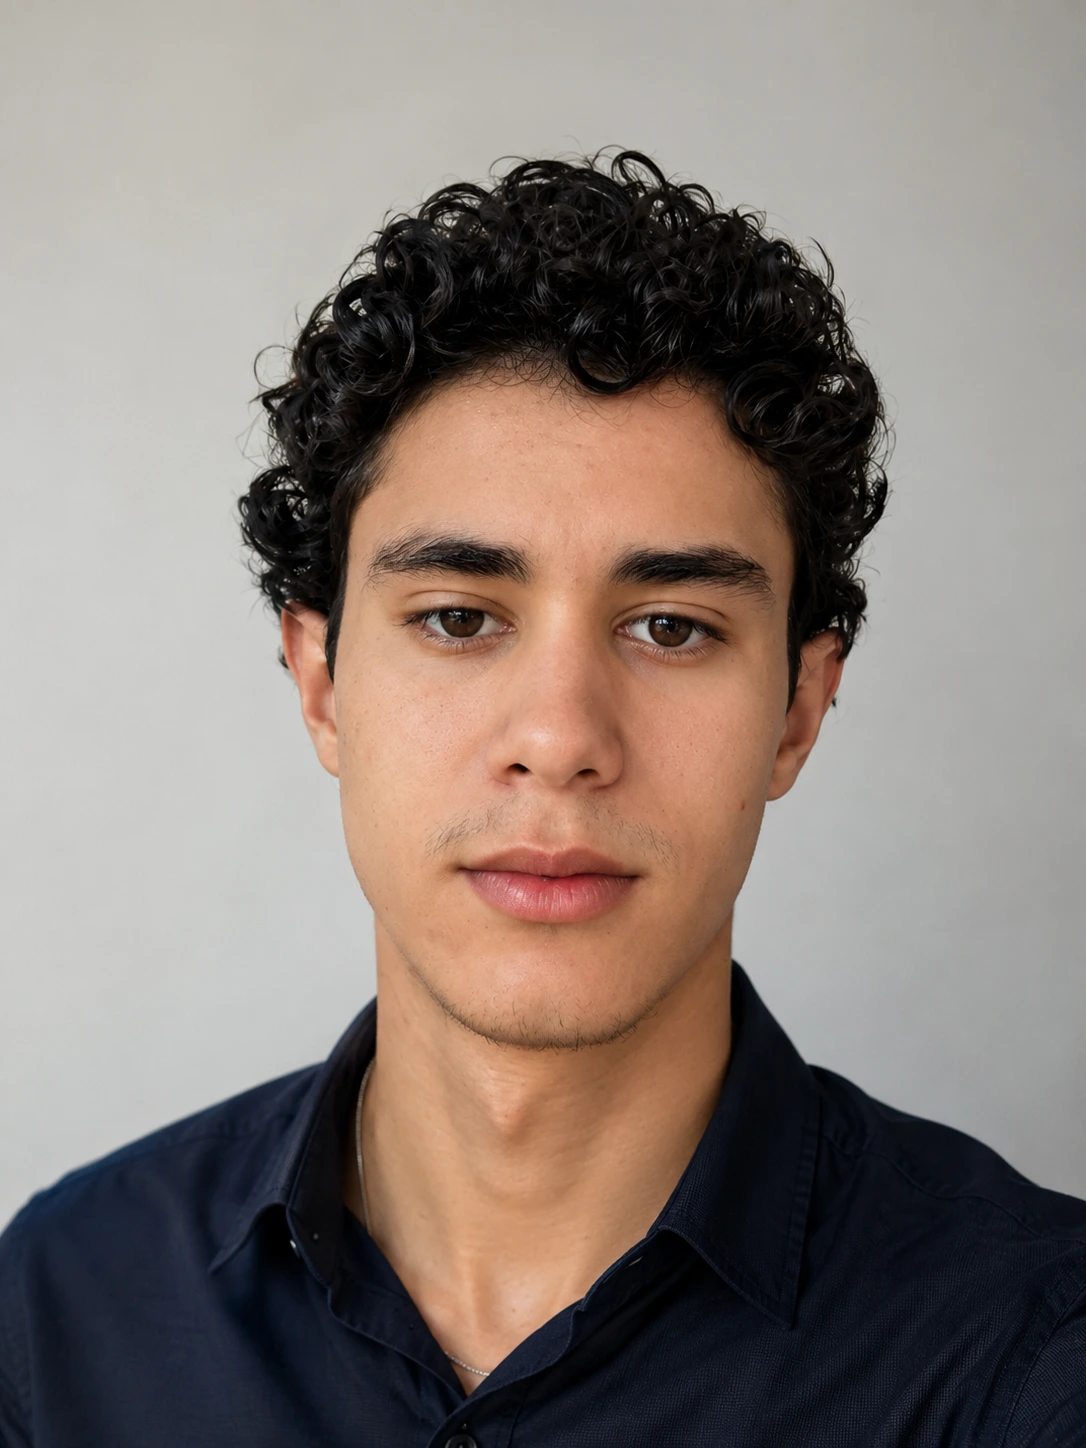
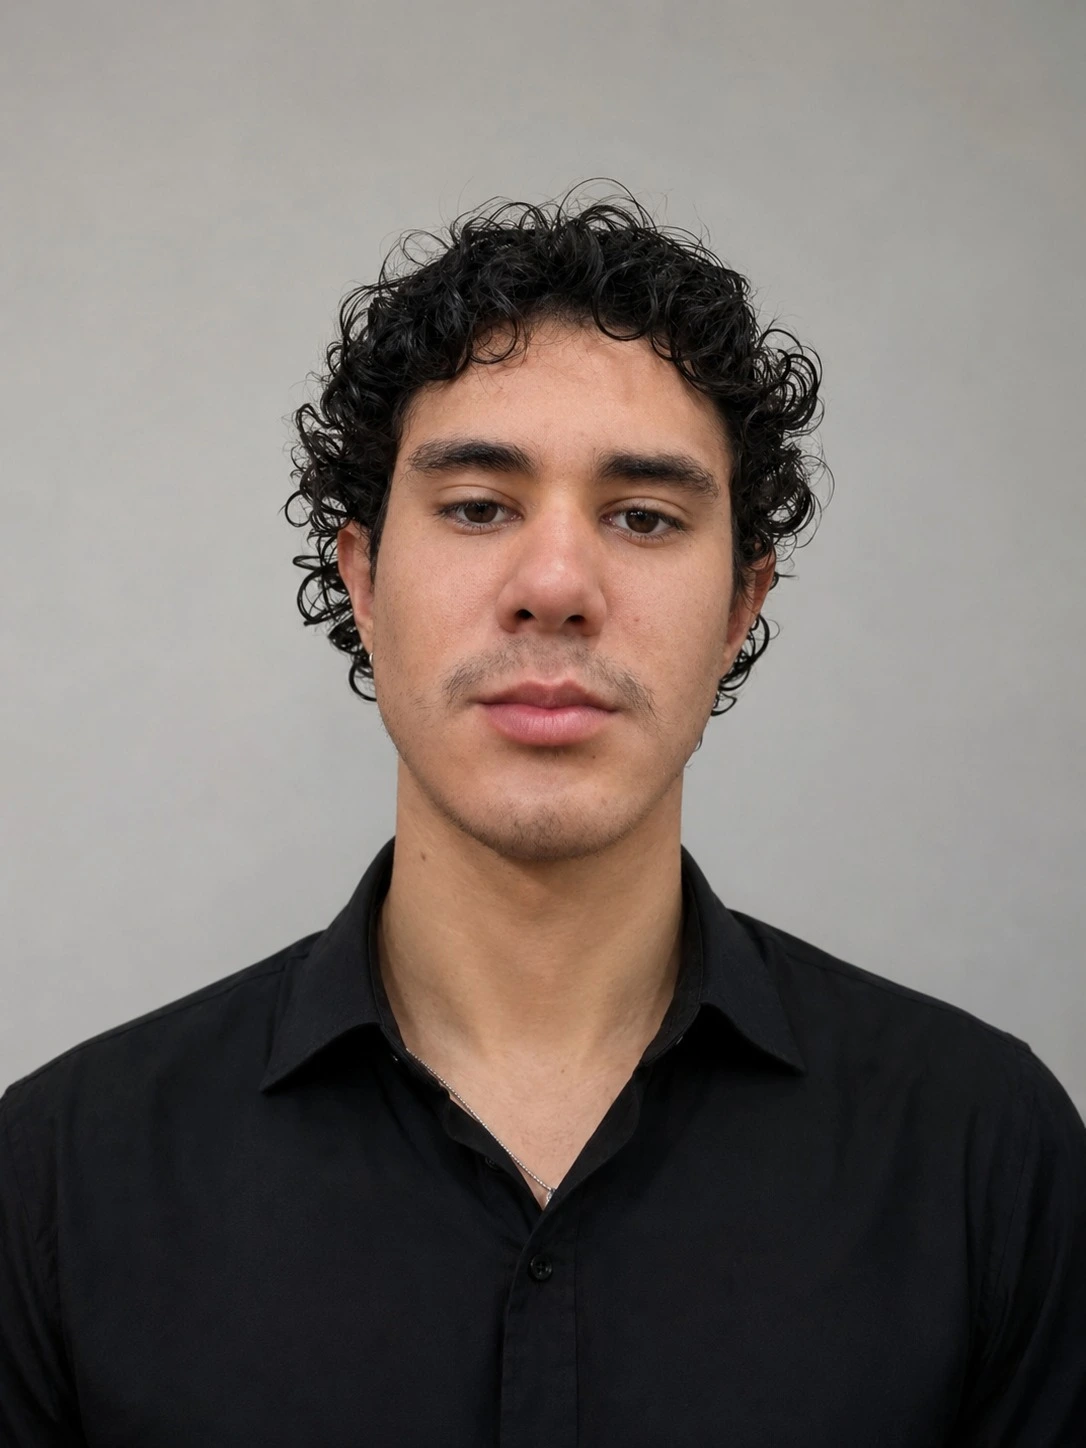
feat: add google analytics

diff --git a/pages/aboutUs.html b/pages/aboutUs.html
@@ -174,42 +174,42 @@
                     </div>
 
                     <div class="membro-card">
-                        <img src="../assets/img/aboutUs/profile.webp" alt="Foto">
+                        <img src="../assets/img/aboutUs/felix.webp" alt="Foto">
                         <h5>Felix</h5>
                         <p>Desenvolvedor</p>
                         <div class="curriculo">
-                            <a href="#" target="_blank">Currículo Lattes</a>
+                            <a href="http://lattes.cnpq.br/0074875411891333" target="_blank">Currículo Lattes</a>
                             <a href="#" target="_blank">LinkedIn</a>
                         </div>
                     </div>
 
                     <div class="membro-card">
-                        <img src="../assets/img/aboutUs/profile.webp" alt="Foto">
+                        <img src="../assets/img/aboutUs/isabela.webp" alt="Foto">
                         <h5>Isabela</h5>
                         <p>Desenvolvedora</p>
                         <div class="curriculo">
                             <a href="#" target="_blank">Currículo Lattes</a>
-                            <a href="#" target="_blank">LinkedIn</a>
+                            <a href="https://br.linkedin.com/in/isabella-reis-borges-9550b2209" target="_blank">LinkedIn</a>
                         </div>
                     </div>
 
                     <div class="membro-card">
                         <img src="../assets/img/aboutUs/profile.webp" alt="Foto">
-                        <h5>Enaque</h5>
+                        <h5>Enoque</h5>
                         <p>Desenvolvedor</p>
                         <div class="curriculo">
-                            <a href="#" target="_blank">Currículo Lattes</a>
+                            <a href="http://lattes.cnpq.br/5299449961044833" target="_blank">Currículo Lattes</a>
                             <a href="#" target="_blank">LinkedIn</a>
                         </div>
                     </div>
 
                     <div class="membro-card">
-                        <img src="../assets/img/aboutUs/profile.webp" alt="Foto">
-                        <h5>Ronaldo</h5>
+                        <img src="../assets/img/aboutUs/ronaldo.webp" alt="Foto">
+                        <h5>Ronaldo Crispim</h5>
                         <p>Desenvolvedor</p>
                         <div class="curriculo">
-                            <a href="#" target="_blank">Currículo Lattes</a>
-                            <a href="#" target="_blank">LinkedIn</a>
+                            <a href="http://lattes.cnpq.br/9209577575643618" target="_blank">Currículo Lattes</a>
+                            <a href="https://www.linkedin.com/in/ronaldocrispimsg/" target="_blank">LinkedIn</a>
                         </div>
                     </div>
 

diff --git a/assets/css/header.css b/assets/css/header.css
@@ -201,20 +201,33 @@
 
     /* Lógica do Checkbox Mobile */
     .drop-icon {
-        display: block; color: #ffffff; font-size: 26px; cursor: pointer;
-        line-height: 1; padding: 0 10px; transition: transform 0.3s ease;
+        display: block; 
+        color: #ffffff; 
+        font-size: 26px; 
+        cursor: pointer;
+        line-height: 1; 
+        padding: 0 10px; 
+        transition: transform 0.3s ease;
     }
     
-    .link-wrapper { justify-content: center; }
+    .link-wrapper { 
+        justify-content: center; 
+    }
     
     .menu-checkbox:checked ~ .main-nav { transform: translateX(0) !important; }
     
     .nav-links > li:hover .dropdown { opacity: 0; visibility: hidden; }
     
     .dropdown {
-        position: static; transform: none; background-color: transparent;
-        box-shadow: none; padding: 0; margin-top: 15px;
-        display: none !important; opacity: 1 !important; visibility: visible !important;
+        position: static; 
+        transform: none; 
+        background-color: transparent;
+        box-shadow: none; 
+        padding: 0; 
+        margin-top: 15px;
+        display: none !important; 
+        opacity: 1 !important; 
+        visibility: visible !important;
     }
     
     .drop-checkbox:checked ~ .dropdown { display: flex !important; flex-direction: column; }

diff --git a/pages/privacidade.html b/pages/privacidade.html
@@ -1,6 +1,15 @@
 <!DOCTYPE html>
 <html lang="pt-br">
 <head>
+    <!-- Google tag (gtag.js) -->
+    <script async src="https://www.googletagmanager.com/gtag/js?id=G-YXF2E5DVGL"></script>
+    <script>
+        window.dataLayer = window.dataLayer || [];
+        function gtag(){dataLayer.push(arguments);}
+        gtag('js', new Date());
+
+        gtag('config', 'G-YXF2E5DVGL');
+    </script>
     <meta charset="UTF-8">
     <meta name="viewport" content="width=device-width, initial-scale=1.0">
     <title>Termos de Uso e Política de Privacidade - Guia Janu</title>

diff --git a/pages/pontos_turisticos_html/peruacu.html b/pages/pontos_turisticos_html/peruacu.html
@@ -1,6 +1,15 @@
 <!DOCTYPE html>
 <html lang="pt-br">
 <head>
+  <!-- Google tag (gtag.js) -->
+    <script async src="https://www.googletagmanager.com/gtag/js?id=G-YXF2E5DVGL"></script>
+    <script>
+        window.dataLayer = window.dataLayer || [];
+        function gtag(){dataLayer.push(arguments);}
+        gtag('js', new Date());
+
+        gtag('config', 'G-YXF2E5DVGL');
+    </script>
   <meta charset="UTF-8">
   <meta name="viewport" content="width=device-width, initial-scale=1.0">
   <title>Parque Nacional Cavernas do Peruaçu - Guia Janu</title>

diff --git a/pages/pontos_turisticos_html/igreja_nossa_senhora_rosario.html b/pages/pontos_turisticos_html/igreja_nossa_senhora_rosario.html
@@ -1,6 +1,15 @@
 <!DOCTYPE html>
 <html lang="pt-br">
 <head>
+  <!-- Google tag (gtag.js) -->
+    <script async src="https://www.googletagmanager.com/gtag/js?id=G-YXF2E5DVGL"></script>
+    <script>
+        window.dataLayer = window.dataLayer || [];
+        function gtag(){dataLayer.push(arguments);}
+        gtag('js', new Date());
+
+        gtag('config', 'G-YXF2E5DVGL');
+    </script>
   <meta charset="UTF-8">
   <meta name="viewport" content="width=device-width, initial-scale=1.0">
   <title>Igreja Nossa Senhora do Rosário - Guia Janu</title>

diff --git a/pages/pontos_turisticos_html/cachoeira_rio_pandeiros.html b/pages/pontos_turisticos_html/cachoeira_rio_pandeiros.html
@@ -1,6 +1,15 @@
 <!DOCTYPE html>
 <html lang="pt-br">
 <head>
+  <!-- Google tag (gtag.js) -->
+    <script async src="https://www.googletagmanager.com/gtag/js?id=G-YXF2E5DVGL"></script>
+    <script>
+        window.dataLayer = window.dataLayer || [];
+        function gtag(){dataLayer.push(arguments);}
+        gtag('js', new Date());
+
+        gtag('config', 'G-YXF2E5DVGL');
+    </script>
   <meta charset="UTF-8">
   <meta name="viewport" content="width=device-width, initial-scale=1.0">
   <title>Cachoeiras do Rio Pandeiros - Guia Janu</title>

diff --git a/pages/pontos_turisticos_html/distrito_brejo_amparo.html b/pages/pontos_turisticos_html/distrito_brejo_amparo.html
@@ -1,6 +1,15 @@
 <!DOCTYPE html>
 <html lang="pt-br">
 <head>
+  <!-- Google tag (gtag.js) -->
+    <script async src="https://www.googletagmanager.com/gtag/js?id=G-YXF2E5DVGL"></script>
+    <script>
+        window.dataLayer = window.dataLayer || [];
+        function gtag(){dataLayer.push(arguments);}
+        gtag('js', new Date());
+
+        gtag('config', 'G-YXF2E5DVGL');
+    </script>
   <meta charset="UTF-8">
   <meta name="viewport" content="width=device-width, initial-scale=1.0">
   <title>Distrito do Brejo do Amparo - Guia Janu</title>

diff --git a/pages/pontos_turisticos_html/getulio_vargas.html b/pages/pontos_turisticos_html/getulio_vargas.html
@@ -1,6 +1,15 @@
 <!DOCTYPE html>
 <html lang="pt-br">
 <head>
+  <!-- Google tag (gtag.js) -->
+    <script async src="https://www.googletagmanager.com/gtag/js?id=G-YXF2E5DVGL"></script>
+    <script>
+        window.dataLayer = window.dataLayer || [];
+        function gtag(){dataLayer.push(arguments);}
+        gtag('js', new Date());
+
+        gtag('config', 'G-YXF2E5DVGL');
+    </script>
   <meta charset="UTF-8">
   <meta name="viewport" content="width=device-width, initial-scale=1.0">
   <title>Praça Getúlio Vargas - Guia Janu</title>

diff --git a/pages/pontos_turisticos_html/tiradentes.html b/pages/pontos_turisticos_html/tiradentes.html
@@ -1,6 +1,15 @@
 <!DOCTYPE html>
 <html lang="pt-br">
 <head>
+  <!-- Google tag (gtag.js) -->
+    <script async src="https://www.googletagmanager.com/gtag/js?id=G-YXF2E5DVGL"></script>
+    <script>
+        window.dataLayer = window.dataLayer || [];
+        function gtag(){dataLayer.push(arguments);}
+        gtag('js', new Date());
+
+        gtag('config', 'G-YXF2E5DVGL');
+    </script>
   <meta charset="UTF-8">
   <meta name="viewport" content="width=device-width, initial-scale=1.0">
   <title>Praça Tiradentes - Guia Janu</title>

diff --git a/pages/acidade.html b/pages/acidade.html
@@ -1,6 +1,15 @@
 <!DOCTYPE html>
 <html lang="pt-br">
 <head>
+    <!-- Google tag (gtag.js) -->
+    <script async src="https://www.googletagmanager.com/gtag/js?id=G-YXF2E5DVGL"></script>
+    <script>
+        window.dataLayer = window.dataLayer || [];
+        function gtag(){dataLayer.push(arguments);}
+        gtag('js', new Date());
+
+        gtag('config', 'G-YXF2E5DVGL');
+    </script>
     <meta charset="UTF-8">
     <meta name="viewport" content="width=device-width, initial-scale=1.0">
     <title>A Cidade - Guia Janu</title>

diff --git a/pages/pontos_turisticos_html/morro_brejo.html b/pages/pontos_turisticos_html/morro_brejo.html
@@ -1,6 +1,15 @@
 <!DOCTYPE html>
 <html lang="pt-br">
 <head>
+  <!-- Google tag (gtag.js) -->
+    <script async src="https://www.googletagmanager.com/gtag/js?id=G-YXF2E5DVGL"></script>
+    <script>
+        window.dataLayer = window.dataLayer || [];
+        function gtag(){dataLayer.push(arguments);}
+        gtag('js', new Date());
+
+        gtag('config', 'G-YXF2E5DVGL');
+    </script>
   <meta charset="UTF-8">
   <meta name="viewport" content="width=device-width, initial-scale=1.0">
   <title>Mirante do Brejo - Guia Janu</title>

diff --git a/pages/pontos_turisticos_html/pantano_mineiro.html b/pages/pontos_turisticos_html/pantano_mineiro.html
@@ -1,6 +1,15 @@
 <!DOCTYPE html>
 <html lang="pt-br">
 <head>
+  <!-- Google tag (gtag.js) -->
+    <script async src="https://www.googletagmanager.com/gtag/js?id=G-YXF2E5DVGL"></script>
+    <script>
+        window.dataLayer = window.dataLayer || [];
+        function gtag(){dataLayer.push(arguments);}
+        gtag('js', new Date());
+
+        gtag('config', 'G-YXF2E5DVGL');
+    </script>
   <meta charset="UTF-8">
   <meta name="viewport" content="width=device-width, initial-scale=1.0">
   <title>Pântano Mineiro - Guia Janu</title>
